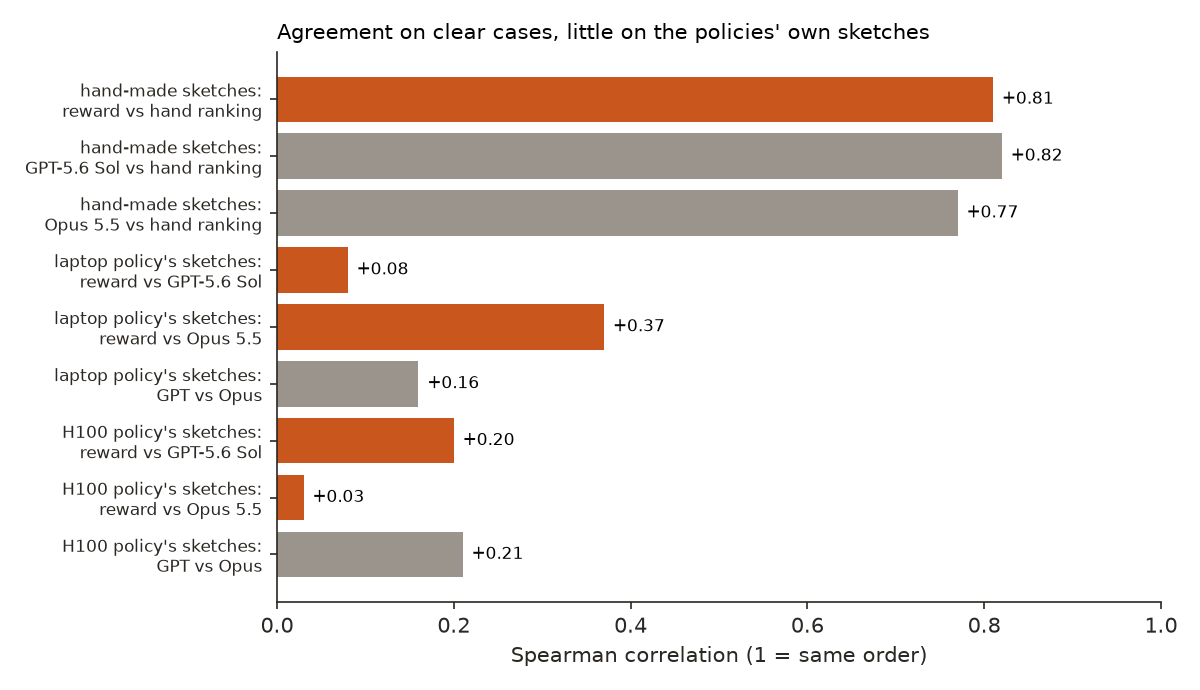
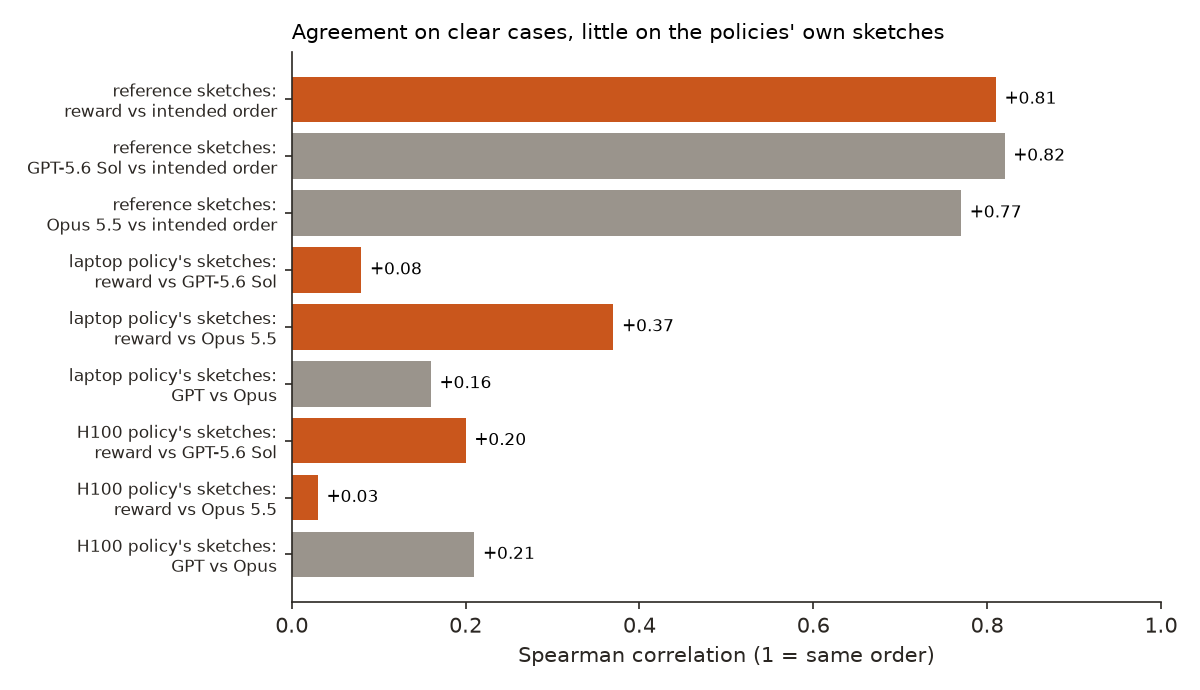
Pigment Gym: clearer wording on the reference sketches and the two rankings compared

diff --git a/experiments/pigment-gym/report/index.html b/experiments/pigment-gym/report/index.html
@@ -124,7 +124,7 @@
     <section class="key answer" aria-labelledby="in-short">
     <p class="summary-label" id="in-short">In short</p>
     <p><strong>When reinforcement learning raises a model's reward for painting with code, does it paint better?</strong></p>
-    <p>Mostly not. GRPO on a laptop took Qwen2.5-Coder-0.5B from 2 to 16 of 16 held-out sketches passing the rule check and its mean reward from 0.09 to 0.48, but 76% of the gain came from failing less, 80% of its late successes contained the prompt's worked example (padded so the copy check missed them), and none painted the green hills the prompt asked for. Two frontier judges that agree with a hand ranking on reference sketches (0.82 and 0.77) agree with the reward on the trained model's sketches at only 0.08 and 0.37. A three times larger model on a rented H100 barely moved (1 to 3 of 16 passing). Untrained frontier models pass 16 of 16 and paint the hills.</p>
+    <p>Mostly not. GRPO on a laptop took Qwen2.5-Coder-0.5B from 2 to 16 of 16 held-out sketches passing the rule check and its mean reward from 0.09 to 0.48, but 76% of the gain came from failing less, 80% of its late successes contained the prompt's worked example (padded so the copy check missed them), and none painted the green hills the prompt asked for. Two frontier judges that agree with the intended order of the reference sketches (0.82 and 0.77) agree with the reward on the trained model's sketches at only 0.08 and 0.37. A three times larger model on a rented H100 barely moved (1 to 3 of 16 passing). Untrained frontier models pass 16 of 16 and paint the hills.</p>
     </section>
 
     <section aria-labelledby="key-results">
@@ -137,7 +137,7 @@
           <tr class="hl"><td>Where did RL's gain come from?</td><td>Failing less: 76% of the laptop run's rise in reward (+0.208 of +0.275)</td><td>Better paintings: 24% (+0.067)</td></tr>
           <tr><td>Were the successes original?</td><td>No: 80% of late passing sketches contain the prompt's example; best-chunk similarity 0.96</td><td>Whole-file similarity 0.66, under the copy check's 0.85</td></tr>
           <tr><td>Did it paint what was asked?</td><td>No hills: the late bottom third is 89% bare paper; CLIP "green hills" 0.197</td><td>Hand-made control with hills: 7% bare, 0.309</td></tr>
-          <tr><td>Did the reward still track quality?</td><td>No: agreement with two judges 0.08 and 0.37 on the trained model's sketches</td><td>On reference sketches: reward 0.81, judges 0.82 and 0.77 with the hand ranking</td></tr>
+          <tr><td>Did the reward still track quality?</td><td>No: agreement with two judges 0.08 and 0.37 on the trained model's sketches</td><td>On reference sketches: reward 0.81, judges 0.82 and 0.77 with the intended order</td></tr>
           <tr><td>Did more compute help?</td><td>No: a 1.5B model on an H100 went from 1/16 to 3/16 passing in 100 steps ($3.83)</td><td>A 5-step test run: also 3/16</td></tr>
         </tbody>
       </table>
@@ -264,10 +264,10 @@ Here is a complete example that paints a
     <img src="figures/scoring_walkthrough.png" alt="Six panels with their scores. A crash: no image, reward 0.05. The words SUNSET OVER GREEN HILLS on paper: gate fails, CLIP would say 0.320, reward 0.05. One tiny dot: CLIP 0.246, aesthetic 4.64, reward 0.57. The prompt's example, a red disc on a blue wash: CLIP 0.278, aesthetic 4.13, reward 0.55. A hand-made sunset over hills: CLIP 0.321, aesthetic 4.86, reward 0.77. A frontier model's painting: CLIP 0.307, aesthetic 5.39, reward 0.84." width="2073" height="589" loading="lazy">
     <figcaption><span class="label">Figure 2.</span>Six sketches through the reward. In the CLIP and aesthetic rows, the first number is the scorer's raw output and the number after the arrow is the same score stretched to 0–1, using the range measured on the reference sketches; the reward adds up the 0–1 numbers. Numbers in brackets are what the scorer would have said about a sketch the gate rejects. The words panel is the text drawn on paper and scored by CLIP directly (the brush canvas cannot draw text); the gate gives it 0.05. Note the tiny dot outscoring the prompt's example, 0.57 against 0.55: the aesthetic predictor likes empty paper.</figcaption>
   </figure>
-  <p><strong>The reward was checked before any training.</strong> We wrote 12 reference sketches by hand (<a href="https://github.com/albertlieyingadrian/steerlab/blob/main/experiments/pigment-gym/hand_pool.py"><code>hand_pool.py</code></a>), from a meadow at sunset down to code that crashes, and ranked them by quality ourselves before scoring any of them (Figure 3). Spearman correlation measures how closely two rankings agree: 1 means the same order, 0 means unrelated. Across all 12, the reward's order agrees with ours at 0.93, but most of that is the easy part, telling broken code from working code. On the 8 sketches that pass the gate, where only taste decides, it agrees at 0.81. The aesthetic score on its own manages only 0.38 on those 8, so CLIP does most of the ranking.</p>
+  <p><strong>The reward was checked before any training.</strong> Twelve reference sketches were written directly as code for this check (<a href="https://github.com/albertlieyingadrian/steerlab/blob/main/experiments/pigment-gym/hand_pool.py"><code>hand_pool.py</code></a>); none comes from a model being tested. Each was built to be clearly better or worse than the next, from a meadow at sunset down to code that crashes, so their quality order was fixed before anything was scored (Figure 3). The check compares two rankings of the same 12 sketches: that intended order, and the order you get by sorting them by reward. Spearman correlation measures how closely two rankings agree: 1 means the same order, 0 means unrelated. Across all 12, the two orders agree at 0.93, but most of that is the easy part, putting broken code last. On the 8 sketches that pass the gate, where only taste decides, they agree at 0.81. The aesthetic score on its own manages only 0.38 on those 8, so CLIP does most of the ranking.</p>
   <figure class="plot">
-    <img src="figures/reference_sketches.png" alt="The 12 reference sketches in hand-ranked order, each with its reward. 1, meadow at sunset, 0.88. 2, sunset over 3 hills, 0.77. 3, simple sunset with 1 hill, 0.71. 4, hills with no sun, 0.50. 5, sun only, 0.59. 6, random confetti, 0.47. 7, muddy brown, 0.23. 8, one tiny dot, 0.57. Tied last, all failing the gate: a syntax error, 0.05; writing the word SUNSET, 0.05; bare p5 shapes, 0.03; blank paper, 0.05." width="1960" height="772" loading="lazy">
-    <figcaption><span class="label">Figure 3.</span>The 12 reference sketches, in the order we ranked them by hand, with the reward each one got. The reward mostly agrees; the visible misses are the sun alone (0.59) above hills with no sun (0.50), and the tiny dot (0.57) above confetti and the muddy painting.</figcaption>
+    <img src="figures/reference_sketches.png" alt="The 12 reference sketches in their intended order, each with its reward. 1, meadow at sunset, 0.88. 2, sunset over 3 hills, 0.77. 3, simple sunset with 1 hill, 0.71. 4, hills with no sun, 0.50. 5, sun only, 0.59. 6, random confetti, 0.47. 7, muddy brown, 0.23. 8, one tiny dot, 0.57. Tied last, all failing the gate: a syntax error, 0.05; writing the word SUNSET, 0.05; bare p5 shapes, 0.03; blank paper, 0.05." width="1960" height="772" loading="lazy">
+    <figcaption><span class="label">Figure 3.</span>The 12 reference sketches in their intended order, best first, with the reward each one got. The reward mostly agrees; the visible misses are the sun alone (0.59) above hills with no sun (0.50), and the tiny dot (0.57) above confetti and the muddy painting.</figcaption>
   </figure>
 
   <h3 id="models">2.2 Models</h3>
@@ -464,12 +464,12 @@ Here is a complete example that paints a
   <p>The second success test fails. The frontier models in 4.1 paint the hills in every one of their top sketches.</p>
 
   <h3 id="rerating" data-short="Reward stopped tracking quality">4.6 The reward stopped tracking quality where the model ended up</h3>
-  <p><strong>On the reference sketches, the reward and both judges order the sketches like the hand ranking (0.81, 0.82, 0.77). On 32 of the trained models' own passing sketches per run, the reward agrees with the judges at 0.08 and 0.37 (laptop) and 0.20 and 0.03 (H100).</strong></p>
+  <p><strong>On the reference sketches, the reward and both judges order the sketches like their intended order (0.81, 0.82, 0.77). On 32 of the trained models' own passing sketches per run, the reward agrees with the judges at 0.08 and 0.37 (laptop) and 0.20 and 0.03 (H100).</strong></p>
   <p>A reward can be right on the cases it was tested on and wrong on the ones the model now produces, like a smoke detector tested in the kitchen that is then needed in the garage. Two judges from different labs, GPT-5.6 Sol and Claude Opus 5.5, rated each sketch 1–5 against a fixed rubric (1 = no picture, 2 = a wash and a disc, 3 = sunset colours and a sun, 4 = a sun and a green hill, 5 = a convincing sunset over green hills), one image per request, with no reward, step or ID shown. Each judge was first checked on the 8 reference sketches that pass the gate.</p>
   <div class="finding">
     <figure class="plot">
-      <img src="figures/agreement.png" alt="Bar chart of Spearman correlations. On hand-made sketches: reward vs hand ranking 0.81, GPT-5.6 Sol 0.82, Opus 5.5 0.77. On the laptop policy's sketches: reward vs GPT 0.08, reward vs Opus 0.37, GPT vs Opus 0.16. On the H100 policy's sketches: reward vs GPT 0.20, reward vs Opus 0.03, GPT vs Opus 0.21." width="1200" height="690" loading="lazy">
-      <figcaption><span class="label">Figure 9.</span>Spearman agreement. Top three: on the 8 passing reference sketches, against their known order. Below: on 32 passing sketches from each run (16 from each half, fixed seed). Orange: the reward against a judge; grey: a judge against the hand ranking or against the other judge.</figcaption>
+      <img src="figures/agreement.png" alt="Bar chart of Spearman correlations. On reference sketches: reward vs intended order 0.81, GPT-5.6 Sol 0.82, Opus 5.5 0.77. On the laptop policy's sketches: reward vs GPT 0.08, reward vs Opus 0.37, GPT vs Opus 0.16. On the H100 policy's sketches: reward vs GPT 0.20, reward vs Opus 0.03, GPT vs Opus 0.21." width="1200" height="690" loading="lazy">
+      <figcaption><span class="label">Figure 9.</span>Spearman agreement. Top three: on the 8 passing reference sketches, against their known order. Below: on 32 passing sketches from each run (16 from each half, fixed seed). Orange: the reward against a judge; grey: a judge against the intended order or against the other judge.</figcaption>
     </figure>
   </div>
   <p>The reward's favourite laptop sketch, a lone disc on blank paper (reward 0.661), got a 2 from both judges. The judges also barely agree with each other on these sketches (0.16 and 0.21), and most of their ratings are 1 or 2: the trained models' sketches are close variations on one template, with little real quality difference left to rank. The reward is still ranking them, on differences neither judge sees. Mean ratings rose only slightly over the laptop run (2.25 to 2.31 for GPT, 2.00 to 2.38 for Opus) and stayed near the floor on the H100 run (1.56 to 1.56, 1.06 to 1.25). The third success test fails.</p>

diff --git a/experiments/pigment-gym/make_figures.py b/experiments/pigment-gym/make_figures.py
@@ -5,7 +5,7 @@
 1. benchmark.png    gate pass rate and mean reward per model, with and without the worked example
 (results/benchmark.json)
 2. curves.png       training curves of both runs, 5-step means (results/curve_laptop.csv, results/curve_h100.csv)
-3. agreement.png    how well the reward's order matches each judge, on hand-made sketches vs the policies' own
+3. agreement.png    how well the reward's order matches each judge, on reference sketches vs the policies' own
                     (results/logs/4_rank_check.txt, 10_judge_*.txt, 11_rerate_*.txt)
 The paintings (contact sheets) are drawn by the scripts that render them; see the README.
 """
@@ -122,11 +122,11 @@ def number(path: Path, pattern: str) -> float:
 
 def agreement() -> None:
     hand = number(LOGS / "4_rank_check.txt", r"full reward\s+[-+.\d]+\s+([-+.\d]+)")
-    rows = [("hand-made sketches:\nreward vs hand ranking", hand, EMBER)]
+    rows = [("reference sketches:\nreward vs intended order", hand, EMBER)]
     for judge, label in [("gpt-5.6-sol", "GPT-5.6 Sol"), ("opus-5.5", "Opus 5.5")]:
         rows.append(
             (
-                f"hand-made sketches:\n{label} vs hand ranking",
+                f"reference sketches:\n{label} vs intended order",
                 number(
                     LOGS / "10_judge_laptop.txt",
                     rf"{judge}\s+ratings by hand rank .*?Spearman with the hand ranking ([-+.\d]+)",
